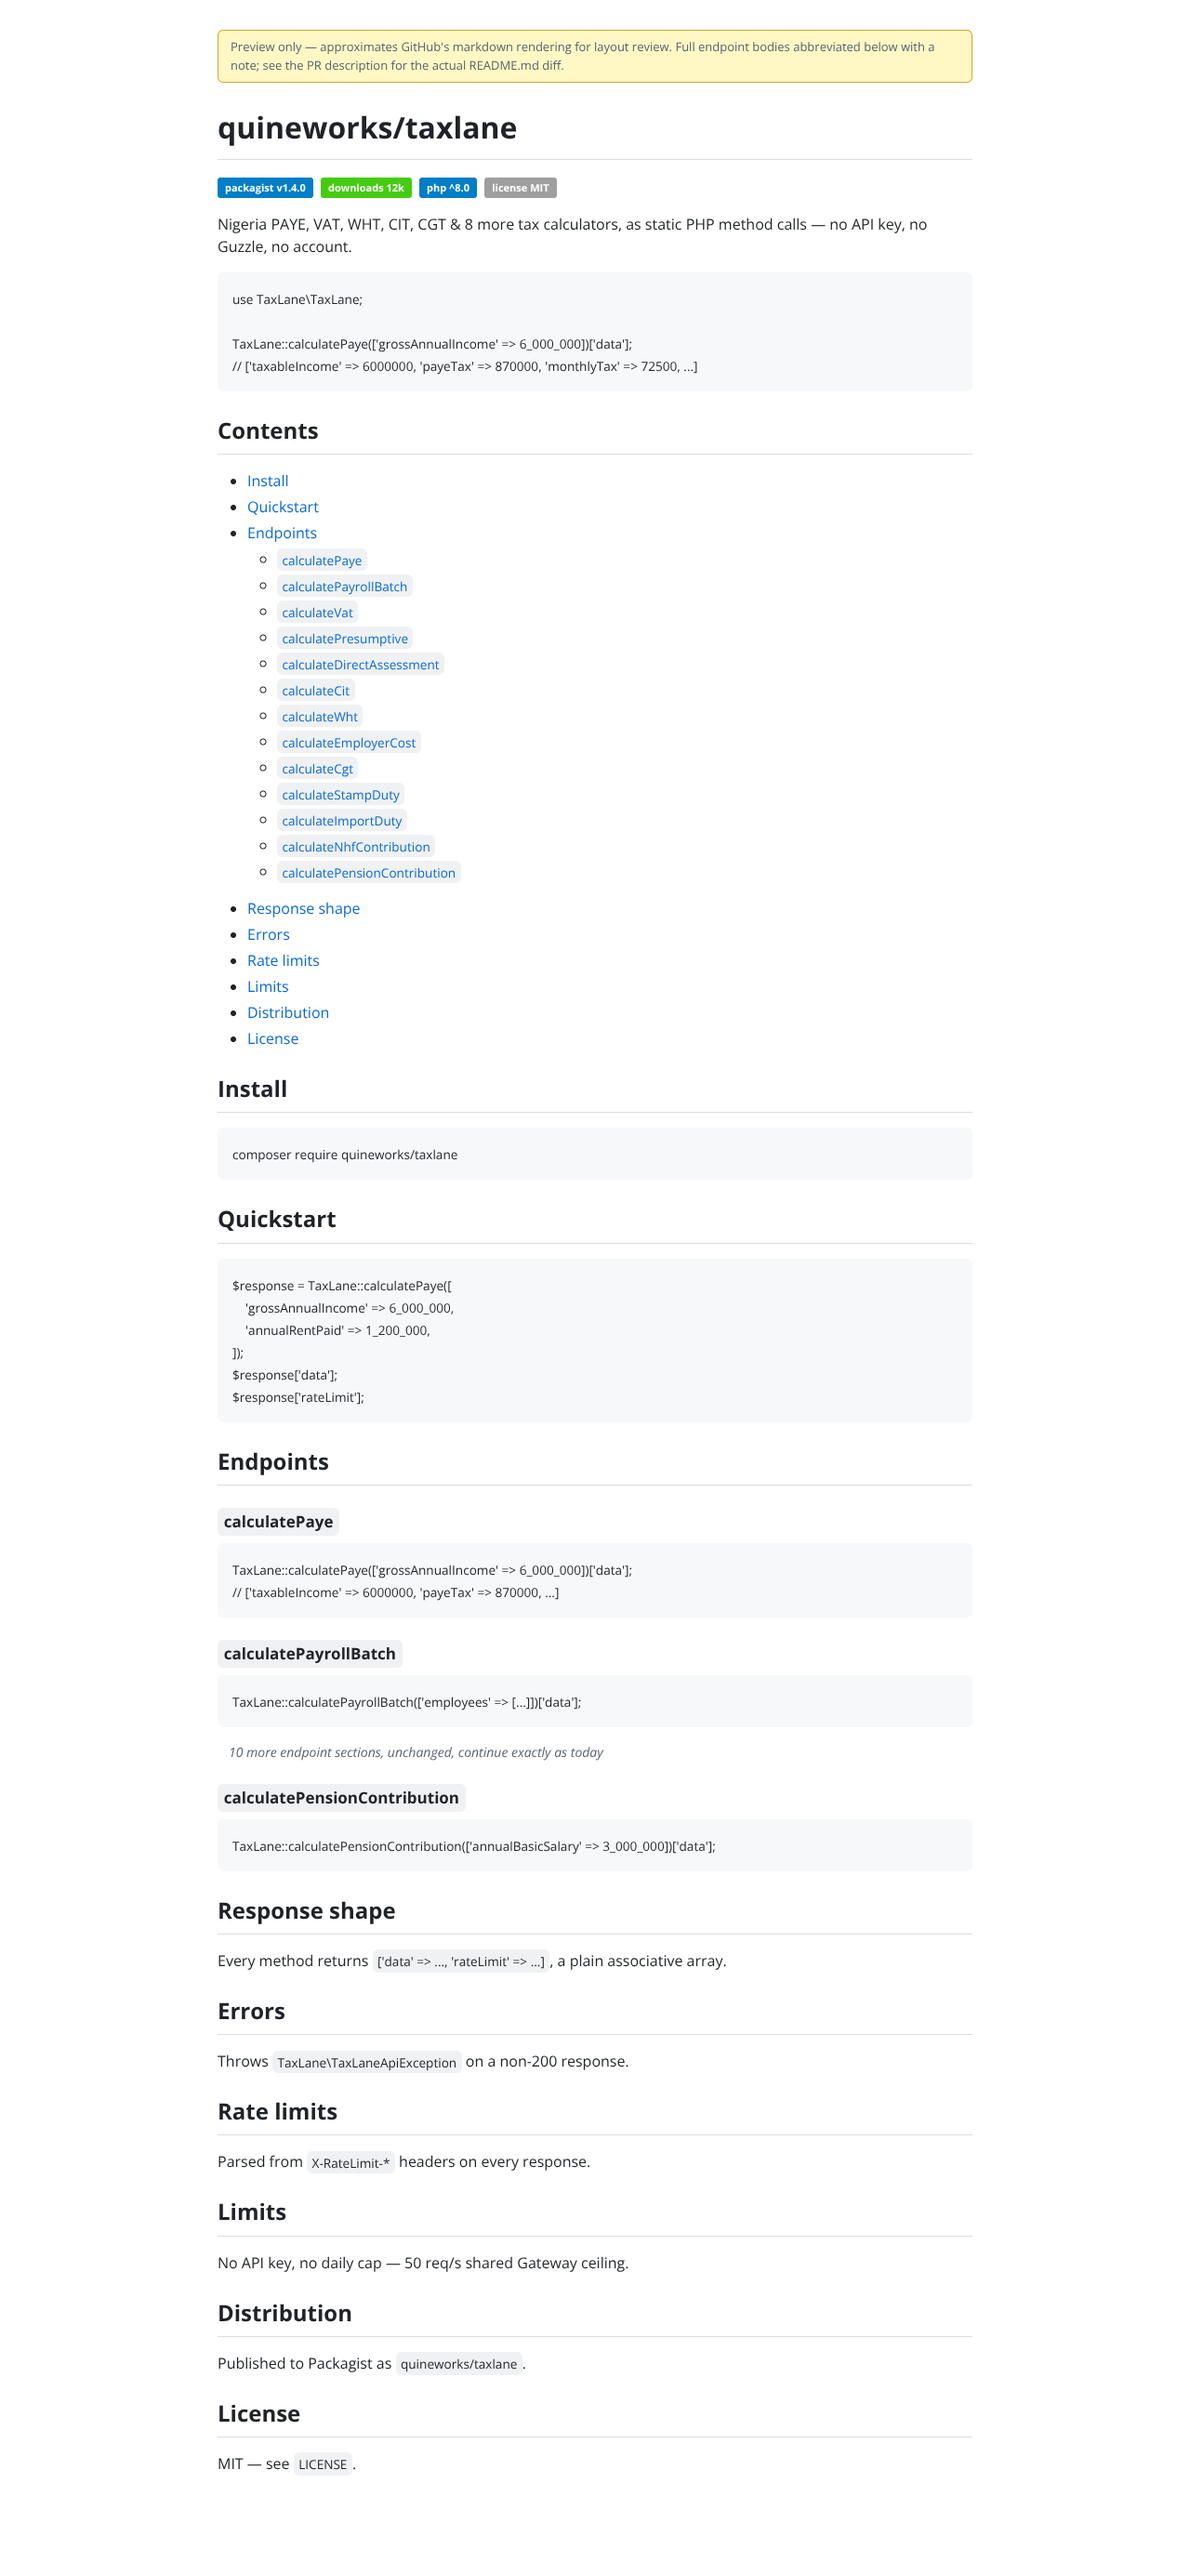
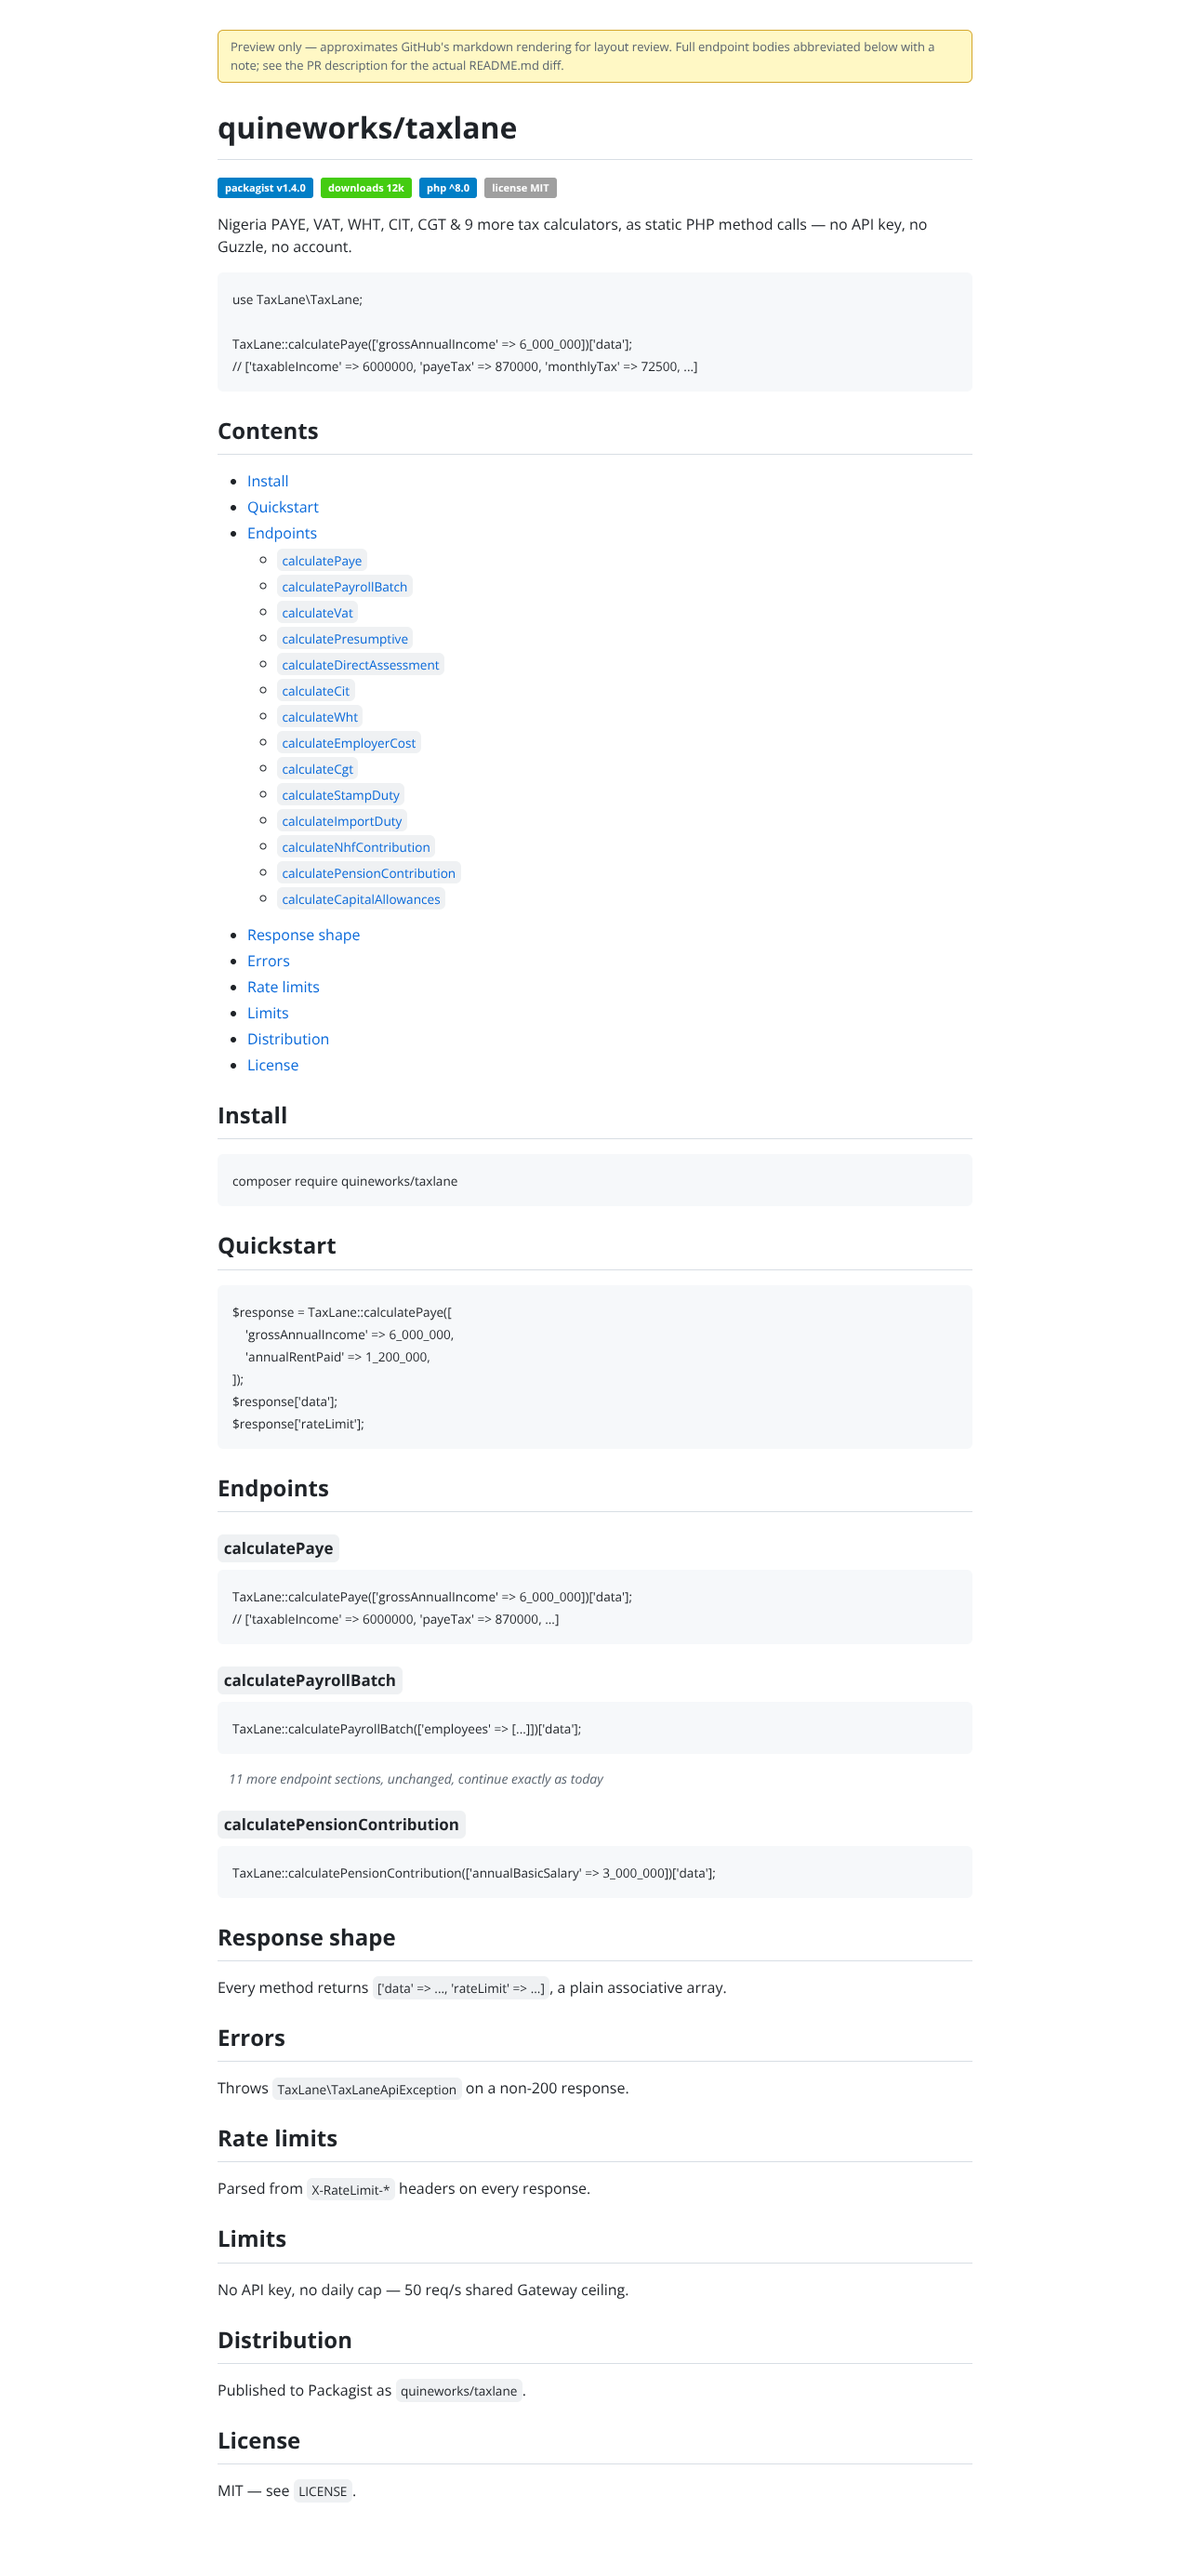
Fix stale calculator count in README navigation candidates (13 -> 14) (#26)
Design-loop survey of quineworks/taxlane-php found all three
docs/design/readme-navigation/previews/ candidates still showing "8 more"
(13 total) calculators, left over from before calculateCapitalAllowances
was added to src/TaxLane.php (#3098, 2026-10-22) two days after these
candidates merged (PR#22, 2026-10-20). Live README.md already says "9
more" / 14; only these archived candidates were behind.

diff --git a/docs/design/readme-navigation/previews/candidate-b-index-table.html b/docs/design/readme-navigation/previews/candidate-b-index-table.html
@@ -16,7 +16,7 @@
     <span class="badge" style="background:#007ec6">php ^8.0</span>
     <span class="badge" style="background:#9f9f9f">license MIT</span>
   </div>
-  <p>Nigeria PAYE, VAT, WHT, CIT, CGT &amp; 8 more tax calculators, as static PHP
+  <p>Nigeria PAYE, VAT, WHT, CIT, CGT &amp; 9 more tax calculators, as static PHP
   method calls — no API key, no Guzzle, no account.</p>
   <pre><code>use TaxLane\TaxLane;
 
@@ -53,6 +53,7 @@ $response['rateLimit'];</code></pre>
       <tr><td><a href="#calculateimportduty"><code>calculateImportDuty</code></a></td><td>Import duty + landed cost on a shipment</td></tr>
       <tr><td><a href="#calculatenhfcontribution"><code>calculateNhfContribution</code></a></td><td>NHF contribution on basic salary</td></tr>
       <tr><td><a href="#calculatepensioncontribution"><code>calculatePensionContribution</code></a></td><td>Pension contribution + balance projection</td></tr>
+      <tr><td><a href="#calculatecapitalallowances"><code>calculateCapitalAllowances</code></a></td><td>Taxable profit from assessable profit, capital allowances &amp; loss relief</td></tr>
     </tbody>
   </table>
 
@@ -63,7 +64,7 @@ $response['rateLimit'];</code></pre>
   <h3 id="calculatepayrollbatch"><code>calculatePayrollBatch</code></h3>
   <pre><code>TaxLane::calculatePayrollBatch(['employees' => [...]])['data'];</code></pre>
 
-  <div class="ellipsis-note">⋯ 10 more endpoint sections, unchanged, continue exactly as today ⋯</div>
+  <div class="ellipsis-note">⋯ 11 more endpoint sections, unchanged, continue exactly as today ⋯</div>
 
   <h3 id="calculatepensioncontribution"><code>calculatePensionContribution</code></h3>
   <pre><code>TaxLane::calculatePensionContribution(['annualBasicSalary' => 3_000_000])['data'];</code></pre>

diff --git a/docs/design/readme-navigation/previews/candidate-a-toc.html b/docs/design/readme-navigation/previews/candidate-a-toc.html
@@ -16,7 +16,7 @@
     <span class="badge" style="background:#007ec6">php ^8.0</span>
     <span class="badge" style="background:#9f9f9f">license MIT</span>
   </div>
-  <p>Nigeria PAYE, VAT, WHT, CIT, CGT &amp; 8 more tax calculators, as static PHP
+  <p>Nigeria PAYE, VAT, WHT, CIT, CGT &amp; 9 more tax calculators, as static PHP
   method calls — no API key, no Guzzle, no account.</p>
   <pre><code>use TaxLane\TaxLane;
 
@@ -42,6 +42,7 @@ TaxLane::calculatePaye(['grossAnnualIncome' => 6_000_000])['data'];
         <li><a href="#calculateimportduty"><code>calculateImportDuty</code></a></li>
         <li><a href="#calculatenhfcontribution"><code>calculateNhfContribution</code></a></li>
         <li><a href="#calculatepensioncontribution"><code>calculatePensionContribution</code></a></li>
+        <li><a href="#calculatecapitalallowances"><code>calculateCapitalAllowances</code></a></li>
       </ul>
     </li>
     <li><a href="#response-shape">Response shape</a></li>
@@ -72,7 +73,7 @@ $response['rateLimit'];</code></pre>
   <h3 id="calculatepayrollbatch"><code>calculatePayrollBatch</code></h3>
   <pre><code>TaxLane::calculatePayrollBatch(['employees' => [...]])['data'];</code></pre>
 
-  <div class="ellipsis-note">⋯ 10 more endpoint sections, unchanged, continue exactly as today ⋯</div>
+  <div class="ellipsis-note">⋯ 11 more endpoint sections, unchanged, continue exactly as today ⋯</div>
 
   <h3 id="calculatepensioncontribution"><code>calculatePensionContribution</code></h3>
   <pre><code>TaxLane::calculatePensionContribution(['annualBasicSalary' => 3_000_000])['data'];</code></pre>

diff --git a/docs/design/readme-navigation/previews/candidate-c-collapsible.html b/docs/design/readme-navigation/previews/candidate-c-collapsible.html
@@ -16,7 +16,7 @@
     <span class="badge" style="background:#007ec6">php ^8.0</span>
     <span class="badge" style="background:#9f9f9f">license MIT</span>
   </div>
-  <p>Nigeria PAYE, VAT, WHT, CIT, CGT &amp; 8 more tax calculators, as static PHP
+  <p>Nigeria PAYE, VAT, WHT, CIT, CGT &amp; 9 more tax calculators, as static PHP
   method calls — no API key, no Guzzle, no account.</p>
   <pre><code>use TaxLane\TaxLane;
 
